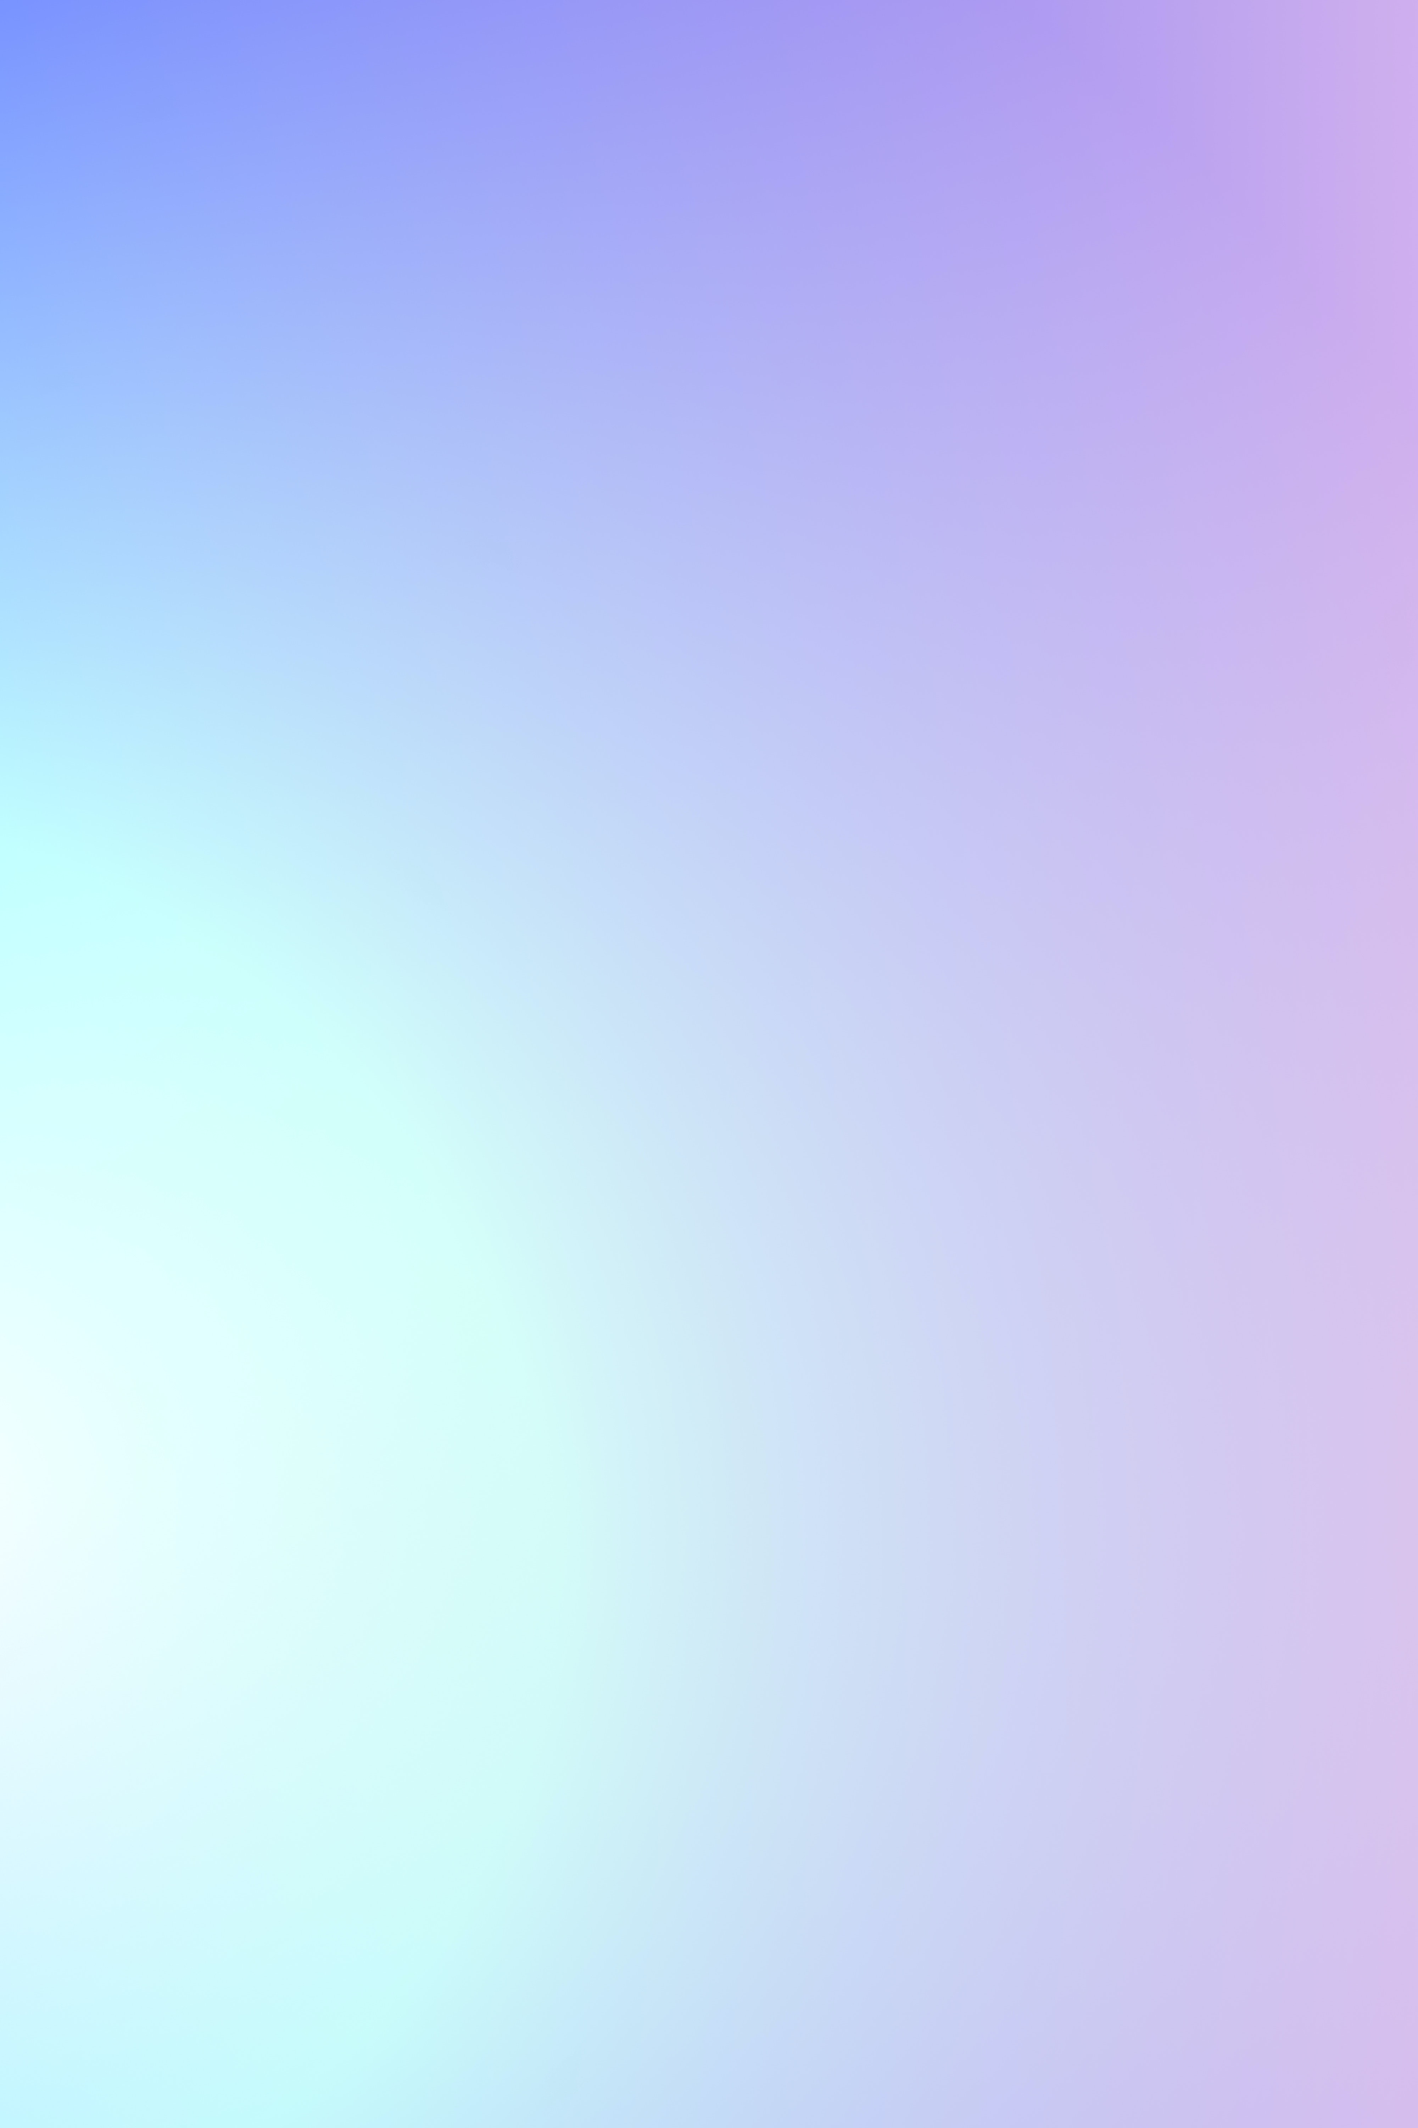
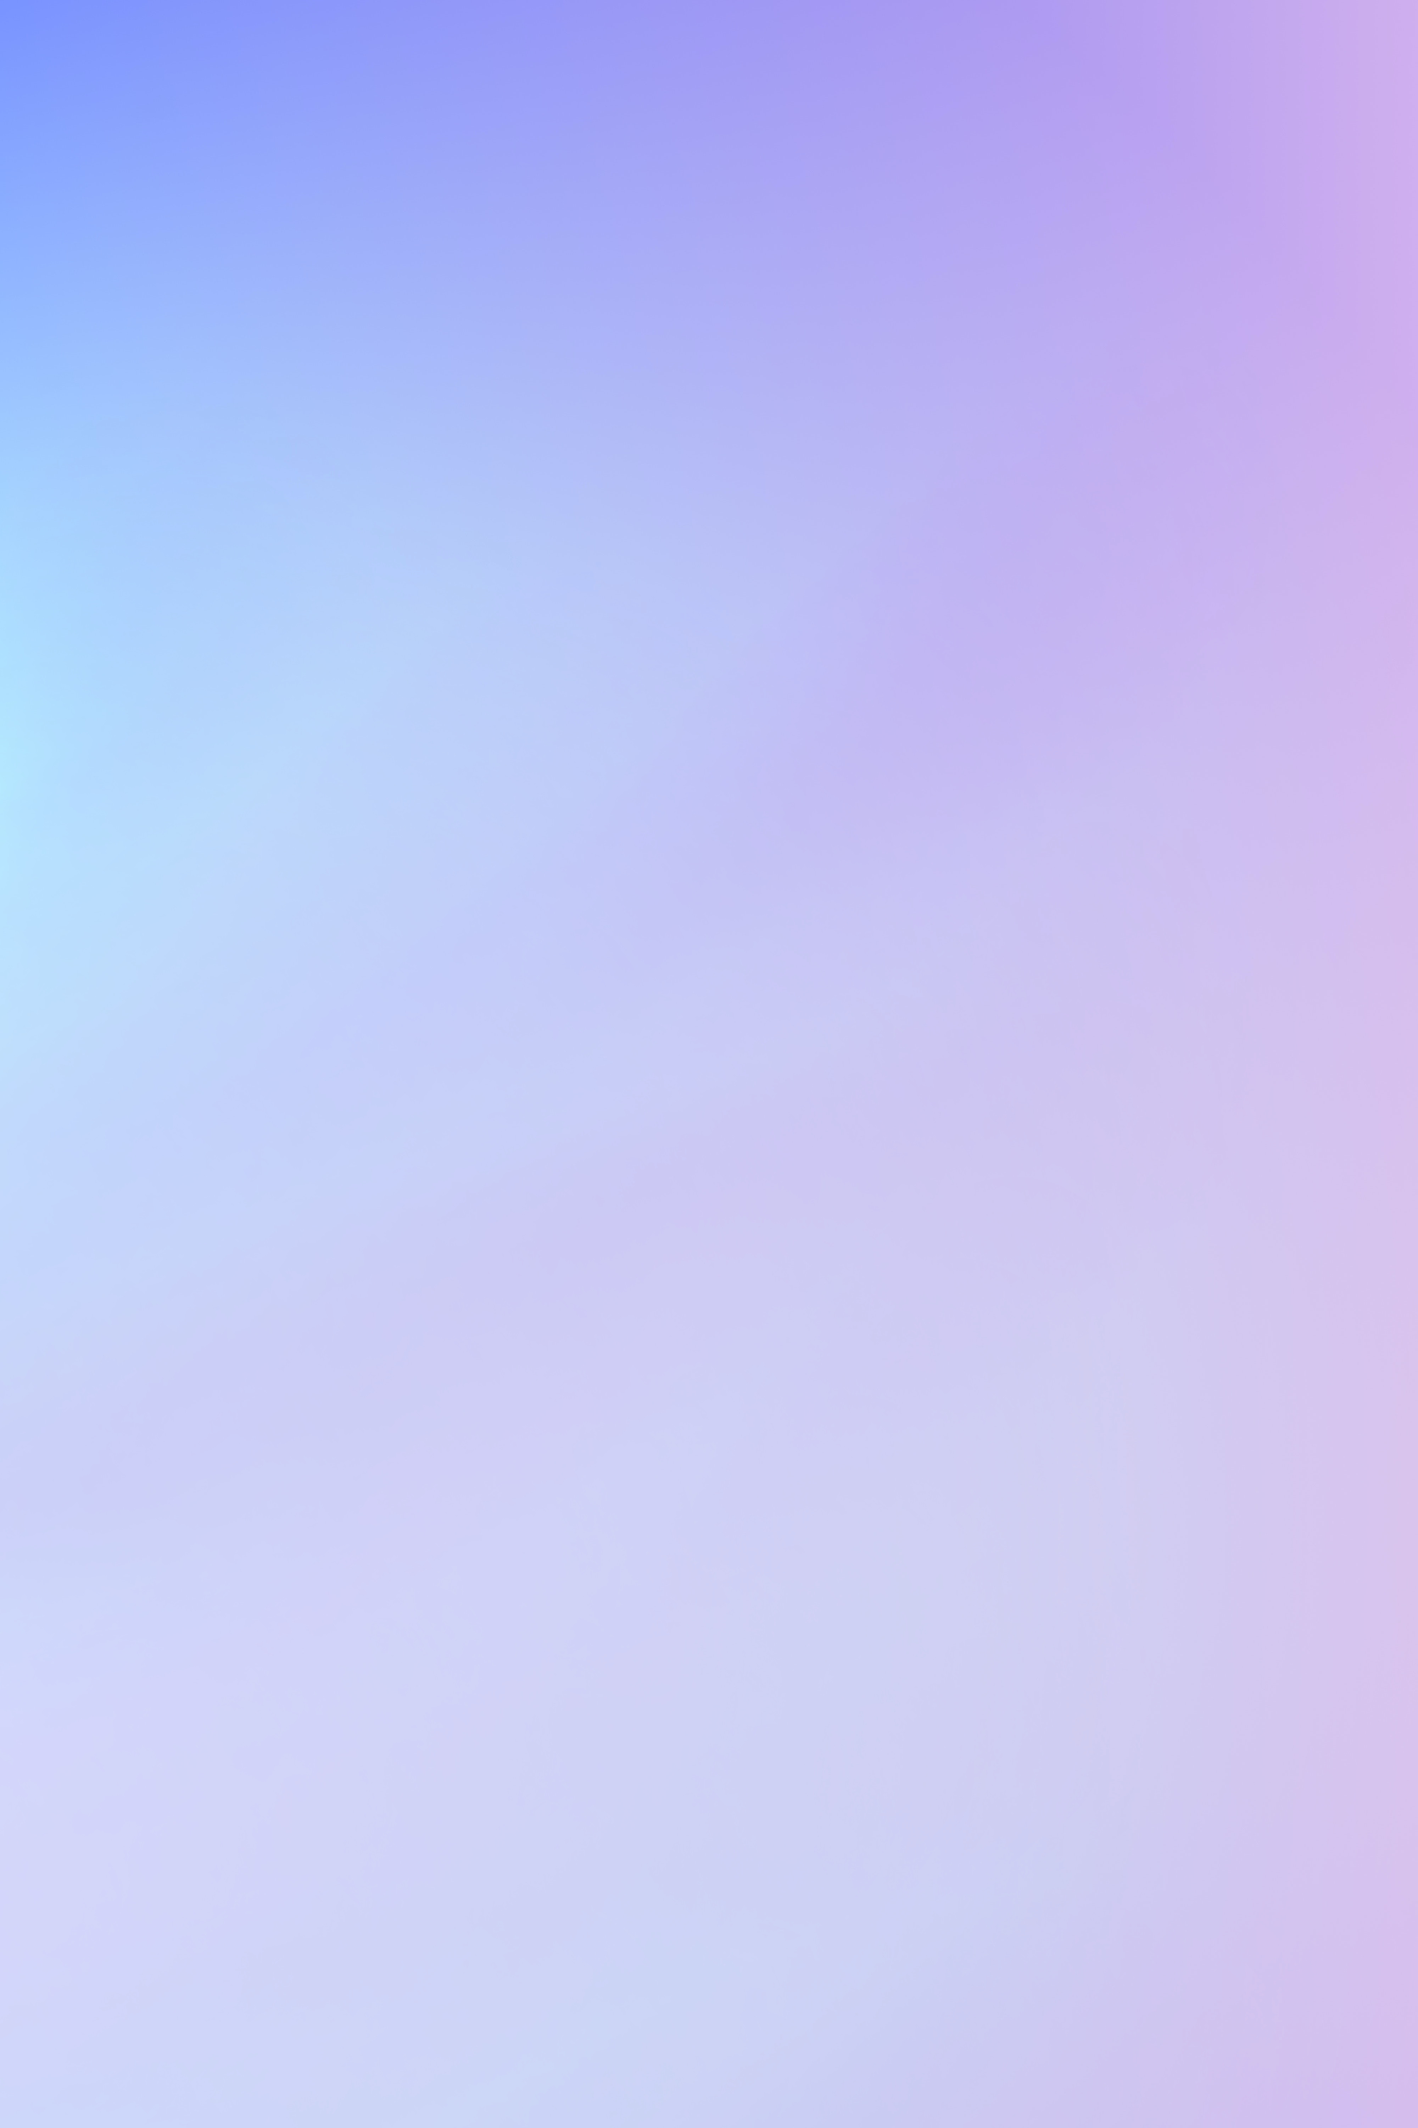
visual changes/postings pages done

Changed region(s): [[0.0, 0.3428, 0.5625, 1.0]]

diff --git a/soen341/css/style.css b/soen341/css/style.css
@@ -10,7 +10,7 @@
 }*/
 
 .main-bg {
-    height: 2000px;
+    height: auto;
     background-image: url(/soen341/images/bg-g.jpg);
     background-size: cover;
     background-position: top center;
@@ -43,15 +43,40 @@ h1 {
 h3 {
     margin-left: auto;
     margin-right: auto;
-    margin-bottom: 10px;
     font-family: 'Lato', sans-serif;
     font-weight: 400;
 }
 
-.brand-name:hover {
-    transition: 1s;
-    color: #91B7FB;
+
+
+
+
+
+.brand-name {
+    transition: font-size 0.5s ease-in-out;
 }
+
+.brand-name:hover{
+    color: #91B7FB;
+    font-size: 3vw;
+    transition: 0.5s;
+}
+
+.row h3 {
+    transition: font-size 0.3s ease-in-out;
+    color: black;
+}
+
+.row:hover h3 {
+    font-size: 1.2vw;
+    color: #54a2ec;
+    transition: 0.25s;
+}
+
+
+
+
+
 
 .carousel-image {
    border-radius: 40px;
@@ -104,9 +129,8 @@ h3 {
 .text-about {
     width: 70%;
     height: auto;
-    text-align: justify;
-    text-justify: inter-word;
-    margin: 30% auto auto auto;
+    text-align: center;
+    margin: 50% auto 10% auto;
     padding: 20px;
 }
 
@@ -118,6 +142,12 @@ h3 {
     margin: auto;
     text-align: center;
     margin-top: 4%;
+}
+
+.postings-size {
+    font-size: 0.9vw;
+    font-family: 'Lato', sans-serif;
+    font-weight: 400;
 }
 
 
@@ -141,13 +171,23 @@ h3 {
     This code was taken from CodePen
     https://codepen.io/jmptr/pen/MWaVzNK
 */
-.outer {
+.outer:hover {
     box-shadow: var(--outer-shadow);
+    transition: 0.4s;
+}
+
+.outer2:hover {
+    box-shadow: var(--outer2-shadow2);
+    transition: 0.4s;
 }
 
 :root {
+--outer2-shadow2: 
+    0 0 0.1vw 0.2vw #ffffff,
+    0 0 0.4vw 0.6vw #c5ccd3,
+    0 0 1vw 0.4vw #767680;
 --outer-shadow: 
-    0 0 0.1vw 0.2vw #df9ab4,
-    0 0 0.4vw 0.6vw #EC5463,
-    0 0 1vw 0.4vw #a5404a;
+    0 0 0.1vw 0.2vw #b1fcfc,
+    0 0 0.4vw 0.6vw #54a2ec,
+    0 0 1vw 0.4vw #4240a5;
 }

diff --git a/soen341/search_page.php b/soen341/search_page.php
@@ -1,14 +1,5 @@
 <?php include 'timeout.php' ?>
 
-<?php
-// Check if the user is logged in
-if (!isset($_SESSION['loggedin']) || $_SESSION['loggedin'] !== true) {
-    // If the user is not logged in, redirect to the login page
-    header("Location: sign_up_page.php");
-    exit;
-}
-?>
-
 <!DOCTYPE html>
 <html lang="en">
     <head>
@@ -123,23 +114,23 @@ if (!isset($_SESSION['loggedin']) || $_SESSION['loggedin'] !== true) {
                 echo 'Search Postings';
                 echo '</h1>';
                 echo '</div>';
-                echo '<div style="background-color: white; height: 70%; margin: auto; width: 53%; overflow: scroll; text-align: center">';
+                echo '<div style="background-color: white; height: 70%; margin: auto; width: 80%; overflow: scroll; text-align: center">';
                 echo '<div class="table" style="margin: auto;">';
                 echo '<div class="row header-row" style="position: sticky; top: 0; background-color: #333; z-index: 1; width: auto; margin: auto;">';
-                echo '<div class="cell" style="width: 200px"><h3 class="text-white" style="font-size: 1.5em">Position</h3></div>';
-                echo '<div class="cell" style="width: 200px"><h3 class="text-white" style="font-size: 1.5em">Company</h3></div>';
-                echo '<div class="cell" style="width: 200px"><h3 class="text-white" style="font-size: 1.5em">Industry</h3></div>';
-                echo '<div class="cell" style="width: 200px"><h3 class="text-white" style="font-size: 1.5em">Location</h3></div>';
-                echo '<div class="cell" style="width: 200px"><h3 class="text-white" style="font-size: 1.5em">Salary</h3></div>';
+                echo '<div class="cell" style="width: 300px"><h3 class="text-white postings-size" style="font-size: 1.5em">Position</h3></div>';
+                echo '<div class="cell" style="width: 300px"><h3 class="text-white postings-size" style="font-size: 1.5em">Company</h3></div>';
+                echo '<div class="cell" style="width: 300px"><h3 class="text-white postings-size" style="font-size: 1.5em">Industry</h3></div>';
+                echo '<div class="cell" style="width: 300px"><h3 class="text-white postings-size" style="font-size: 1.5em">Location</h3></div>';
+                echo '<div class="cell" style="width: 300px"><h3 class="text-white postings-size" style="font-size: 1.5em">Salary</h3></div>';
                 echo '</div>';
                 while ($row = $result->fetch_assoc()) {
-                    echo '<div class="row" style="width: auto; margin: auto; border-bottom: 1px solid #ddd; text-align: center">';
+                    echo '<div class="row hoverable-row" style="width: auto; margin: auto; border-bottom: 1px solid #ddd; text-align: center">';
                     echo '<a href="position.php?id=' . $row['id'] . '" style="display: contents">';
-                    echo '<div class="cell" style="width: 200px"><p class="text-black">' . $row['position'] . '</p></div>';
-                    echo '<div class="cell" style="width: 200px"><p class="text-black">' . $row['company'] . '</p></div>';
-                    echo '<div class="cell" style="width: 200px"><p class="text-black">' . $row['industry'] . '</p></div>';
-                    echo '<div class="cell" style="width: 200px"><p class="text-black">' . $row['plocation'] . '</p></div>';
-                    echo '<div class="cell" style="width: 200px"><p class="text-black">' . $row['salary'] . '</p></div>';
+                    echo '<div class="cell" style="width: 300px"><h3 class=" postings-size">' . $row['position'] . '</h3></div>';
+                    echo '<div class="cell" style="width: 300px"><h3 class=" postings-size">' . $row['company'] . '</h3></div>';
+                    echo '<div class="cell" style="width: 300px"><h3 class=" postings-size">' . $row['industry'] . '</h3></div>';
+                    echo '<div class="cell" style="width: 300px"><h3 class=" postings-size">' . $row['plocation'] . '</h3></div>';
+                    echo '<div class="cell" style="width: 300px"><h3 class=" postings-size">' . $row['salary'] . '</h3></div>';
                     echo '</a>';
                     echo '</div>';                    
                 }
@@ -147,8 +138,8 @@ if (!isset($_SESSION['loggedin']) || $_SESSION['loggedin'] !== true) {
                 echo '</div>';
             } else {
                 echo "No rows found";
-            }            
-
+            }
+            
             $conn->close();
         ?>
 

diff --git a/soen341/index.php b/soen341/index.php
@@ -37,7 +37,7 @@
             
             <!-- Elements in navbar-->
             <div class="collapse navbar-collapse summon-font" id="navbarSupportedContent">
-                 <ul class="navbar-nav ms-auto" style="margin-right: 20px; font-size: 21px;">
+                 <ul class="navbar-nav ms-auto" style="margin-right: 20px; font-size: 1vw;">
                     <li class="nav-item">
                         <a class="nav-link navbar-text" href="/soen341/index.php">
                             Home
@@ -89,7 +89,7 @@
 
         <!-- Start of Page Here-->
         <div style="text-align: center; margin-top: 10%; margin-bottom: 5%;">
-            <h1 class="text-white" style="font-size: 4.5vw; transition: opacity 0.5s ease-out;" id="headline">
+            <h1 class="text-white" style="font-size: 5vw; transition: opacity 0.5s ease-out;" id="headline">
                 TalentHub
             </h1>
             <h3 class="text-white" style="margin-top: 1%; font-size: 1.4vw; font-family: 'Lato', sans-serif; font-weight: 400;">
@@ -115,8 +115,8 @@
         </script>
 
         <div class="profile_buttons">
-            <a href="/soen341/search_page.php" class="btn btn-primary btn-lg" style="margin-right: 10%; width: 25%"><h1>Search</h1></a>
-            <a href="/soen341/update_profile.php" class="btn btn-light btn-lg" style="margin-left: 10%; width: 25%"><h1>Post Position</h1></a>
+            <a href="/soen341/search_page.php" class="btn btn-primary btn-lg outer" style="margin-right: 10%; width: 25%"><h1 style="font-size: 2vw">Search</h1></a>
+            <a href="/soen341/post.php" class="btn btn-light btn-lg outer2" style="margin-left: 10%; width: 25%"><h1 style="font-size: 2vw">Post Position</h1></a>
         </div>
 
             <!--
@@ -166,16 +166,16 @@
             </div> -->
 
             <div class="text-about" id="about">
-                <h3 id="text1" style="font-size: 1.8em; margin-bottom: 4%; padding-top: 4%">
+                <h3 class="text-white" id="text1" style="font-size: 1.8em; margin-bottom: 4%; margin-top 20%; padding-top: 4%">
                     Welcome to TalentHub, the premier destination for job seekers and employers alike. Our mission is to connect talented professionals with the best job opportunities and help employers find the most qualified candidates for their open positions.
                 </h3>
-                <h3 id="text2" style="font-size: 1.8em; margin-bottom: 4%">
+                <h3 class="text-white" id="text2" style="font-size: 1.8em; margin-bottom: 4%">
                     We believe that finding the right job or candidate can be a daunting task, but it doesn't have to be. With TalentHub, job seekers can easily browse and apply for job openings across a wide range of industries and locations. We offer a variety of tools and resources to help job seekers create winning resumes, prepare for interviews, and land their dream job.
                 </h3>
-                <h3 id="text3" style="font-size: 1.8em; margin-bottom: 4%">
+                <h3 class="text-white" id="text3" style="font-size: 1.8em; margin-bottom: 4%">
                     For employers, TalentHub provides a streamlined hiring process that saves time and resources. Our platform allows employers to post job openings, search and filter through resumes, and connect with the most promising candidates. We understand that hiring the right person can make all the difference for a business, and we're here to help employers find the talent they need to succeed.
                 </h3>
-                <h3 id="text4" style="font-size: 1.8em;">
+                <h3 class="text-white" id="text4" style="font-size: 1.8em;">
                     At TalentHub, we're passionate about helping job seekers and employers achieve their goals. Whether you're looking for a new job or searching for your next hire, we're here to support you every step of the way. Join our community today and discover the many opportunities that await you.
                 </h3>
             </div>

diff --git a/soen341/dashboard.php b/soen341/dashboard.php
@@ -130,23 +130,23 @@ if ($result) {
         </div>
 
         <div class="profile_buttons">
-            <a href="/soen341/search_page.php" class="btn btn-primary btn-lg" style="margin-right: 5%; width: 200px">Search</a>
-            <a href="/soen341/update_profile.php" class="btn btn-light btn-lg" style="margin-left: 5%; width: 200px">Update Profile</a>
+            <a href="/soen341/search_page.php" class="btn btn-primary btn-lg outer" style="margin-right: 5%; width: 200px">Search</a>
+            <a href="/soen341/update_profile.php" class="btn btn-light btn-lg outer2" style="margin-left: 5%; width: 200px">Update Profile</a>
         </div>
 
         <!-- Start of Page Here-->
         <div class="table" style="margin: auto; margin-top: 3%; text-align: center">
             <div class="row" style="width: 800px; margin: auto; text-align: center">
-                <div class="cell" style="width: 200px"><h3 class="text-white" style="font-size: 1.5em">Name</h3></div>
-                <div class="cell" style="width: 200px"><h3 class="text-white" style="font-size: 1.5em">Username</h3></div>
-                <div class="cell" style="width: 200px"><h3 class="text-white" style="font-size: 1.5em">Education</h3></div>
-                <div class="cell" style="width: 200px"><h3 class="text-white" style="font-size: 1.5em">Location</h3></div>
+                <div class="cell" style="width: 200px"><h3 class="text-white" style="font-size: 2vw">Name</h3></div>
+                <div class="cell" style="width: 200px"><h3 class="text-white" style="font-size: 2vw">Username</h3></div>
+                <div class="cell" style="width: 200px"><h3 class="text-white" style="font-size: 2vw">Education</h3></div>
+                <div class="cell" style="width: 200px"><h3 class="text-white" style="font-size: 2vw">Location</h3></div>
             </div>
             <div class="row" style="width: 800px; margin: auto; text-align: center">
-                <div class="cell" style="width: 200px"><p class="text-white"><?php echo $name ?></p></div>
-                <div class="cell" style="width: 200px"><p class="text-white"><?php echo $username ?></p></div>
-                <div class="cell" style="width: 200px"><p class="text-white"><?php echo $education ?></p></div>
-                <div class="cell" style="width: 200px"><p class="text-white"><?php echo $mylocation ?></p></div>
+                <div class="cell" style="width: 200px"><h3 class="text-white" style="font-size: 1.2vw"><?php echo $name ?></h3></div>
+                <div class="cell" style="width: 200px"><h3 class="text-white" style="font-size: 1.2vw"><?php echo $username ?></h3></div>
+                <div class="cell" style="width: 200px"><h3 class="text-white" style="font-size: 1.2vw"><?php echo $education ?></h3></div>
+                <div class="cell" style="width: 200px"><h3 class="text-white" style="font-size: 1.2vw"><?php echo $mylocation ?></h3></div>
             </div>
 
             <hr>

diff --git a/soen341/sign_up_page.php b/soen341/sign_up_page.php
@@ -122,7 +122,7 @@ if (isset($_SESSION['loggedin']) && $_SESSION['loggedin'] == true) {
                             <label for="inputPassword">Password</label>
                             <input type="password" class="form-control" id="password" name="inputpassword" placeholder="Password">
                         </div>
-                        <button type="submit" class="btn btn-primary btn-submit">Log In</button>
+                        <button type="submit" class="btn btn-primary btn-submit outer">Log In</button>
                     </form>
 
                     <h1 class="text-white sign-up-text" style="padding-top: 2%;">Sign Up</h1>
@@ -147,7 +147,7 @@ if (isset($_SESSION['loggedin']) && $_SESSION['loggedin'] == true) {
                             <label for="password2">Confirm Password</label>
                             <input type="password" class="form-control" id="password2" name="password2" placeholder="Confirm Password">
                         </div>
-                        <button type="submit" class="btn btn-primary btn-submit">Sign Up</button>
+                        <button type="submit" class="btn btn-primary btn-submit outer">Sign Up</button>
                     </form>                                                
                 </div>
             </div>

diff --git a/soen341/position.php b/soen341/position.php
@@ -131,7 +131,7 @@ if (isset($_GET['id'])) {
 
         <div class="table" style="margin: auto; margin-top: 4%; text-align: center">
             <div class="row" style="width: 1800px; margin: auto; text-align: center">
-                <div class="cell" style="width: 300px"><a href="search_page.php" class="btn btn-light btn-lg" style="background-color: #ffffff; margin-left: 2%; margin-top: 2%; width: 200px">Back to Search</a></div>
+                <div class="cell" style="width: 300px"><a href="search_page.php" class="btn btn-light btn-lg outer2" style="background-color: #ffffff; margin-left: 2%; margin-top: 2%; width: 200px">Back to Search</a></div>
                 <div class="cell" style="width: 200px"><h3 class="text-white" style="font-size: 1.5em">Position</h3></div>
                 <div class="cell" style="width: 200px"><h3 class="text-white" style="font-size: 1.5em">Company</h3></div>
                 <div class="cell" style="width: 500px"><h3 class="text-white" style="font-size: 1.5em">Description</h3></div>
